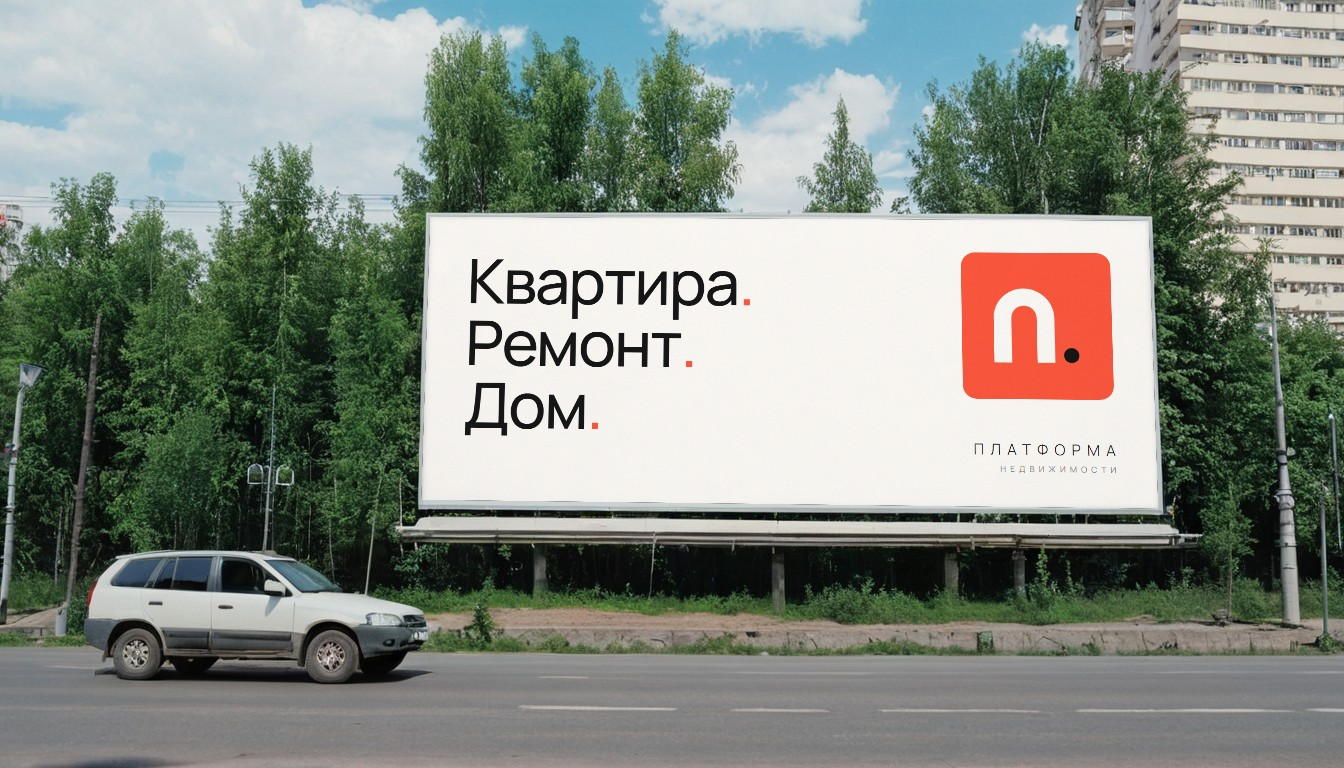
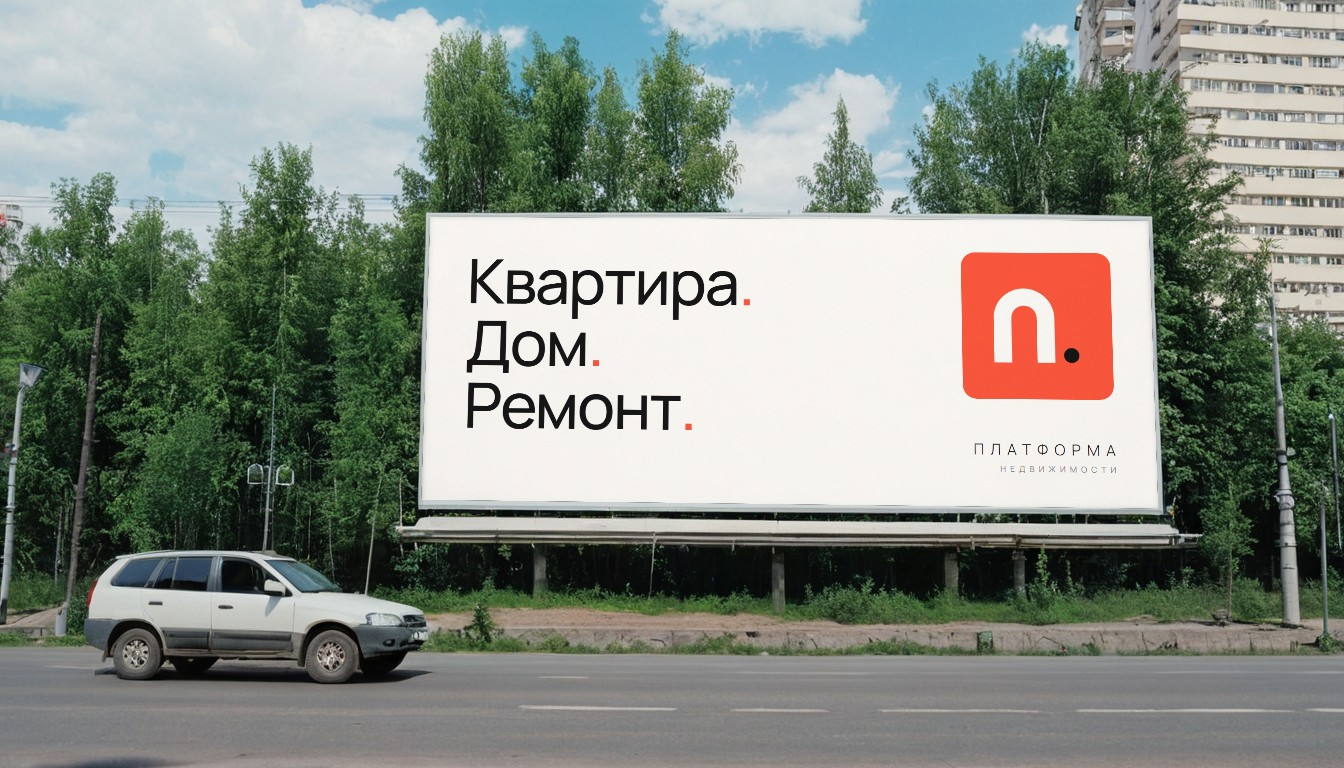
Порядок направлений: Квартира. Дом. Ремонт.

Changed region(s): [[0.3438, 0.4062, 0.5, 0.5625]]

diff --git a/07_Презентация/index.html b/07_Презентация/index.html
@@ -125,7 +125,7 @@ p.lead{font-size:20px;line-height:1.55;max-width:620px;color:inherit;opacity:.85
   <div class="l">
     <div class="meta"><span>Фирменный стиль</span><span>Екатеринбург · 2026</span></div>
     <div><svg width="150" height="132.4" viewBox="0 0 68 60" role="img" aria-label="Знак «П.»" style="overflow:visible;display:block"><path d="M0 60 V24 A24 24 0 0 1 48 24 V60 H34 V24 A10 10 0 0 0 14 24 V60 Z" fill="#FFFFFF"/><circle cx="61" cy="54" r="6" fill="#0E0E0F"/></svg><div style="margin-top:56px"><div style="display:flex;flex-direction:column;align-items:flex-start"><div style="font:300 30px/1 Manrope,sans-serif;letter-spacing:.42em;margin-right:-.42em;color:#FFFFFF;white-space:nowrap">ПЛАТФОРМА</div><div style="font:400 16.5px/1 Manrope,sans-serif;letter-spacing:.5em;margin-right:-.5em;color:#FFE1DB;white-space:nowrap;margin-top:16px">НЕДВИЖИМОСТИ</div></div></div></div>
-    <div style="font:400 26px/1.2 Manrope;letter-spacing:-.01em"><em class="nw">Квартира<i class="o n"></i></em> <em class="nw">Ремонт<i class="o n"></i></em> <em class="nw">Дом<i class="o n"></i></em></div>
+    <div style="font:400 26px/1.2 Manrope;letter-spacing:-.01em"><em class="nw">Квартира<i class="o n"></i></em> <em class="nw">Дом<i class="o n"></i></em> <em class="nw">Ремонт<i class="o n"></i></em></div>
   </div>
   <div class="r" role="img" aria-label="Екатеринбург на закате: Городской пруд и Исеть-башня"></div>
 </section>
@@ -138,8 +138,8 @@ p.lead{font-size:20px;line-height:1.55;max-width:620px;color:inherit;opacity:.85
   </div>
   <div class="trio">
     <div><b><em class="nw">Квартиры<i class="o"></i></em></b><span>Новостройки и вторичное жильё Екатеринбурга только от проверенных застройщиков. Подбор, самая выгодная ипотека, сопровождение сделки.</span></div>
-    <div><b><em class="nw">Ремонт<i class="o"></i></em></b><span>Ремонт у партнёров, за которых мы ручаемся. Смета и сроки — до начала работ, приёмка каждого этапа.</span></div>
     <div><b><em class="nw">Дома<i class="o"></i></em></b><span>Каменные дома от проверенных строителей-партнёров — по готовым и индивидуальным проектам.</span></div>
+    <div><b><em class="nw">Ремонт<i class="o"></i></em></b><span>Ремонт у партнёров, за которых мы ручаемся. Смета и сроки — до начала работ, приёмка каждого этапа.</span></div>
   </div>
 </div></section>
 
@@ -231,7 +231,7 @@ p.lead{font-size:20px;line-height:1.55;max-width:620px;color:inherit;opacity:.85
 </div></section>
 
 <section class="white"><div class="in soc">
-  <div class="phone" style="width:330px"><div class="scr"><div style="background:#fff;position:absolute;inset:0;color:#161617;font-size:11px"><div style="padding:52px 14px 10px;display:flex;justify-content:space-between;font-weight:700;font-size:13px">[ник] <span style="letter-spacing:2px">···</span></div><div style="display:flex;align-items:center;gap:16px;padding:0 14px"><div style="width:70px;height:70px;border-radius:35px;background:#0E0E0F;display:flex;align-items:center;justify-content:center;box-shadow:inset 0 0 0 1px #ffffff14"><svg width="39.2" height="34.6" viewBox="0 0 68 60" role="img" aria-label="Иконка приложения" style="overflow:visible;display:block"><path d="M0 60 V24 A24 24 0 0 1 48 24 V60 H34 V24 A10 10 0 0 0 14 24 V60 Z" fill="#F4F2EE"/><circle cx="61" cy="54" r="6" fill="#F5553C"/></svg></div><div style="display:flex;gap:14px;text-align:center;font-size:10px;color:#8A867F"><div><b style="display:block;font-size:13px;color:#161617">[N]</b>публикаций</div><div><b style="display:block;font-size:13px;color:#161617">[N]</b>подписчиков</div></div></div><div style="padding:10px 14px 0;line-height:1.4"><b>Платформа недвижимости</b><br><em class="nw">Квартиры<i class="o"></i></em> <em class="nw">Ремонт<i class="o"></i></em> <em class="nw">Дома<i class="o"></i></em><br>Только проверенные предложения<br><span style="color:#8A867F">Екатеринбург · +7 965 500-29-18</span></div><div style="display:flex;gap:6px;padding:10px 14px"><div style="flex:1;background:#F5553C;color:#fff;border-radius:8px;text-align:center;padding:7px;font-weight:700">Подписаться</div><div style="flex:1;background:#ECEAE6;border-radius:8px;text-align:center;padding:7px;font-weight:700">Написать</div></div><div style="display:flex;gap:12px;padding:4px 14px 12px"><div style="display:flex;flex-direction:column;align-items:center;gap:4px;font-size:9px;color:#8A867F"><div style="width:46px;height:46px;border-radius:50%;border:1.5px solid #DDD9D2;display:flex;align-items:center;justify-content:center;background:#ECEAE6"><b style="color:#F5553C;font-size:20px;line-height:0">.</b></div>Квартиры</div><div style="display:flex;flex-direction:column;align-items:center;gap:4px;font-size:9px;color:#8A867F"><div style="width:46px;height:46px;border-radius:50%;border:1.5px solid #DDD9D2;display:flex;align-items:center;justify-content:center;background:#ECEAE6"><b style="color:#F5553C;font-size:20px;line-height:0">.</b></div>Ремонт</div><div style="display:flex;flex-direction:column;align-items:center;gap:4px;font-size:9px;color:#8A867F"><div style="width:46px;height:46px;border-radius:50%;border:1.5px solid #DDD9D2;display:flex;align-items:center;justify-content:center;background:#ECEAE6"><b style="color:#F5553C;font-size:20px;line-height:0">.</b></div>Дома</div><div style="display:flex;flex-direction:column;align-items:center;gap:4px;font-size:9px;color:#8A867F"><div style="width:46px;height:46px;border-radius:50%;border:1.5px solid #DDD9D2;display:flex;align-items:center;justify-content:center;background:#ECEAE6"><b style="color:#F5553C;font-size:20px;line-height:0">.</b></div>Ипотека</div></div><div style="display:grid;grid-template-columns:repeat(3,1fr);gap:2px"><div class="pp"><div style="background:#F5553C;color:#fff;padding:8px;font:600 11px/1.05 Manrope">Ставим<br><em class="nw">точку<i class="o n"></i></em></div></div><div class="pp"><div style="background:url(photo/kv_living2.jpg) center/cover"></div></div><div class="pp"><div style="background:#0E0E0F;display:flex;align-items:center;justify-content:center"><svg width="34" height="30.0" viewBox="0 0 68 60" role="img" aria-label="Знак «П.»" style="overflow:visible;display:block"><path d="M0 60 V24 A24 24 0 0 1 48 24 V60 H34 V24 A10 10 0 0 0 14 24 V60 Z" fill="#F4F2EE"/><circle cx="61" cy="54" r="6" fill="#F5553C"/></svg></div></div><div class="pp"><div style="background:url(photo/P_helmet.jpg) 50% 60%/cover"></div></div><div class="pp"><div style="background:#ECEAE6;color:#161617;padding:8px;font:600 10px/1.1 Manrope">Этап 3 из <em class="nw">7<i class="o"></i></em></div></div><div class="pp"><div style="background:url(photo/house_stone2.jpg) center/cover"></div></div><div class="pp"><div style="background:url(photo/rem_bathroom.jpg) center/cover"></div></div><div class="pp"><div style="background:#F5553C;color:#fff;padding:8px;font:600 10px/1.1 Manrope">Ремонт без<br><em class="nw">многоточий<i class="o n"></i></em></div></div><div class="pp"><div style="background:url(photo/kv_kitchen.jpg) center/cover"></div></div></div></div></div><i class="isl"></i></div>
+  <div class="phone" style="width:330px"><div class="scr"><div style="background:#fff;position:absolute;inset:0;color:#161617;font-size:11px"><div style="padding:52px 14px 10px;display:flex;justify-content:space-between;font-weight:700;font-size:13px">[ник] <span style="letter-spacing:2px">···</span></div><div style="display:flex;align-items:center;gap:16px;padding:0 14px"><div style="width:70px;height:70px;border-radius:35px;background:#0E0E0F;display:flex;align-items:center;justify-content:center;box-shadow:inset 0 0 0 1px #ffffff14"><svg width="39.2" height="34.6" viewBox="0 0 68 60" role="img" aria-label="Иконка приложения" style="overflow:visible;display:block"><path d="M0 60 V24 A24 24 0 0 1 48 24 V60 H34 V24 A10 10 0 0 0 14 24 V60 Z" fill="#F4F2EE"/><circle cx="61" cy="54" r="6" fill="#F5553C"/></svg></div><div style="display:flex;gap:14px;text-align:center;font-size:10px;color:#8A867F"><div><b style="display:block;font-size:13px;color:#161617">[N]</b>публикаций</div><div><b style="display:block;font-size:13px;color:#161617">[N]</b>подписчиков</div></div></div><div style="padding:10px 14px 0;line-height:1.4"><b>Платформа недвижимости</b><br><em class="nw">Квартиры<i class="o"></i></em> <em class="nw">Дома<i class="o"></i></em> <em class="nw">Ремонт<i class="o"></i></em><br>Только проверенные предложения<br><span style="color:#8A867F">Екатеринбург · +7 965 500-29-18</span></div><div style="display:flex;gap:6px;padding:10px 14px"><div style="flex:1;background:#F5553C;color:#fff;border-radius:8px;text-align:center;padding:7px;font-weight:700">Подписаться</div><div style="flex:1;background:#ECEAE6;border-radius:8px;text-align:center;padding:7px;font-weight:700">Написать</div></div><div style="display:flex;gap:12px;padding:4px 14px 12px"><div style="display:flex;flex-direction:column;align-items:center;gap:4px;font-size:9px;color:#8A867F"><div style="width:46px;height:46px;border-radius:50%;border:1.5px solid #DDD9D2;display:flex;align-items:center;justify-content:center;background:#ECEAE6"><b style="color:#F5553C;font-size:20px;line-height:0">.</b></div>Квартиры</div><div style="display:flex;flex-direction:column;align-items:center;gap:4px;font-size:9px;color:#8A867F"><div style="width:46px;height:46px;border-radius:50%;border:1.5px solid #DDD9D2;display:flex;align-items:center;justify-content:center;background:#ECEAE6"><b style="color:#F5553C;font-size:20px;line-height:0">.</b></div>Дома</div><div style="display:flex;flex-direction:column;align-items:center;gap:4px;font-size:9px;color:#8A867F"><div style="width:46px;height:46px;border-radius:50%;border:1.5px solid #DDD9D2;display:flex;align-items:center;justify-content:center;background:#ECEAE6"><b style="color:#F5553C;font-size:20px;line-height:0">.</b></div>Ремонт</div><div style="display:flex;flex-direction:column;align-items:center;gap:4px;font-size:9px;color:#8A867F"><div style="width:46px;height:46px;border-radius:50%;border:1.5px solid #DDD9D2;display:flex;align-items:center;justify-content:center;background:#ECEAE6"><b style="color:#F5553C;font-size:20px;line-height:0">.</b></div>Ипотека</div></div><div style="display:grid;grid-template-columns:repeat(3,1fr);gap:2px"><div class="pp"><div style="background:#F5553C;color:#fff;padding:8px;font:600 11px/1.05 Manrope">Ставим<br><em class="nw">точку<i class="o n"></i></em></div></div><div class="pp"><div style="background:url(photo/kv_living2.jpg) center/cover"></div></div><div class="pp"><div style="background:#0E0E0F;display:flex;align-items:center;justify-content:center"><svg width="34" height="30.0" viewBox="0 0 68 60" role="img" aria-label="Знак «П.»" style="overflow:visible;display:block"><path d="M0 60 V24 A24 24 0 0 1 48 24 V60 H34 V24 A10 10 0 0 0 14 24 V60 Z" fill="#F4F2EE"/><circle cx="61" cy="54" r="6" fill="#F5553C"/></svg></div></div><div class="pp"><div style="background:url(photo/P_helmet.jpg) 50% 60%/cover"></div></div><div class="pp"><div style="background:#ECEAE6;color:#161617;padding:8px;font:600 10px/1.1 Manrope">Этап 3 из <em class="nw">7<i class="o"></i></em></div></div><div class="pp"><div style="background:url(photo/house_stone2.jpg) center/cover"></div></div><div class="pp"><div style="background:url(photo/rem_bathroom.jpg) center/cover"></div></div><div class="pp"><div style="background:#F5553C;color:#fff;padding:8px;font:600 10px/1.1 Manrope">Ремонт без<br><em class="nw">многоточий<i class="o n"></i></em></div></div><div class="pp"><div style="background:url(photo/kv_kitchen.jpg) center/cover"></div></div></div></div></div><i class="isl"></i></div>
   <div><div class="lab"><b>11</b> Соцсети</div><h2>Лента как <em class="nw">витрина<i class="o"></i></em></h2>
     <p class="lead" style="color:#4A4741">В ленте — только отобранные предложения: фото реальных объектов чередуются с красными карточками-фразами. Аватар — иконка приложения.</p>
     <div class="posts" style="margin-top:44px">
@@ -250,7 +250,7 @@ p.lead{font-size:20px;line-height:1.55;max-width:620px;color:inherit;opacity:.85
     <div class="phone" style="width:300px"><div class="scr"><img src="photo/site_mobile.png" alt="Главная страница на телефоне"></div><i class="isl"></i></div>
   </div>
   <div class="notes">
-    <div><b>Вкладки</b>Квартиры, Ремонт, Дома — три направления в одном поиске.</div>
+    <div><b>Вкладки</b>Новостройки, вторичка, дома и квартиры с ремонтом — в одном поиске.</div>
     <div><b>Фильтры сразу</b>Тип, комнаты, цена и район — на первом экране, на кнопке — число найденных вариантов.</div>
     <div><b>Отметка «проверено»</b>Красная точка в карточке и на карте — застройщик или бригада прошли нашу проверку.</div>
     <div><b>Карточки и карта</b>Фото, цена и цена за м²; при наведении объект подсвечивается на карте.</div>

diff --git a/08_Сайт_пример/index.html b/08_Сайт_пример/index.html
@@ -269,7 +269,7 @@ footer h4{color:var(--milk);font-size:14px;margin:0 0 12px}footer a{display:bloc
       <p class="sub">Продаём только то, что проверили сами: надёжные застройщики, чистые сделки, самые выгодные условия. Ремонт и дом — у партнёров, в которых мы уверены.</p>
     </div>
     <div class="sbox">
-      <div class="tabs" role="tablist" aria-label="Что ищете"><button role="tab" aria-selected="true">Новостройки</button><button role="tab" aria-selected="false">Вторичка</button><button role="tab" aria-selected="false">С ремонтом</button><button role="tab" aria-selected="false">Дома</button></div>
+      <div class="tabs" role="tablist" aria-label="Что ищете"><button role="tab" aria-selected="true">Новостройки</button><button role="tab" aria-selected="false">Вторичка</button><button role="tab" aria-selected="false">Дома</button><button role="tab" aria-selected="false">С ремонтом</button></div>
       <form class="sf" onsubmit="return false" aria-label="Поиск">
         <div class="f"><label>Комнат</label><div class="v"><button type="button" class="chip" aria-pressed="false">Студия</button><button type="button" class="chip" aria-pressed="true">1</button><button type="button" class="chip" aria-pressed="true">2</button><button type="button" class="chip" aria-pressed="false">3</button><button type="button" class="chip" aria-pressed="false">4+</button></div></div>
         <div class="f"><label for="pr">Цена, ₽</label><input id="pr" placeholder="от — до" inputmode="numeric"></div>
@@ -343,8 +343,8 @@ footer h4{color:var(--milk);font-size:14px;margin:0 0 12px}footer a{display:bloc
   <h2 class="t">Продаём мы. Делают — проверенные<i class="o"></i></h2>
   <div class="pgrid">
     <div class="pc"><div class="ph"><img src="photo/inspect.jpg" alt="Инженер проверяет строящийся дом" loading="lazy"><span>Застройщики</span></div><div class="b"><h3>Новостройки<i class="o"></i></h3><p>Только застройщики, которые прошли нашу проверку по документам и сданным домам.</p><div class="br2">[ эскроу ] [ сроки сдачи ] [ суды ] [ отзывы жильцов ]</div><a class="lk" href="#list">Смотреть квартиры</a></div></div>
-    <div class="pc"><div class="ph"><img src="photo/crew.jpg" alt="Бригада укладывает плитку" loading="lazy"><span>Подрядчики</span></div><div class="b"><h3>Ремонт<i class="o"></i></h3><p>После покупки — ремонт от партнёра. Смета до начала работ, приёмка по этапам.</p><div class="br2">[ портфолио ] [ договор ] [ гарантия ] [ приёмка этапов ]</div><a class="lk" href="#ba">Как это выглядит</a></div></div>
     <div class="pc"><div class="ph"><img src="photo/house.jpg" alt="Каменный дом за городом" loading="lazy"><span>Строители</span></div><div class="b"><h3>Дома<i class="o"></i></h3><p>Готовые и строящиеся дома от строителей, которых мы проверили.</p><div class="br2">[ построенные дома ] [ смета ] [ этапы оплаты ] [ гарантия ]</div><a class="lk" href="#lead">Подобрать дом</a></div></div>
+    <div class="pc"><div class="ph"><img src="photo/crew.jpg" alt="Бригада укладывает плитку" loading="lazy"><span>Подрядчики</span></div><div class="b"><h3>Ремонт<i class="o"></i></h3><p>После покупки — ремонт от партнёра. Смета до начала работ, приёмка по этапам.</p><div class="br2">[ портфолио ] [ договор ] [ гарантия ] [ приёмка этапов ]</div><a class="lk" href="#ba">Как это выглядит</a></div></div>
   </div>
   <div class="way"><span class="stp"><i></i>Подобрали квартиру</span><span class="ln"></span><span class="stp"><i></i>Провели сделку</span><span class="ln"></span><span class="stp"><i></i>Передали партнёру ремонт</span><span class="ln"></span><span class="stp"><i></i>Вы получили ключи</span><a class="btn red" href="tel:+79655002918">Один менеджер на всё</a></div>
 </div></section>
@@ -399,7 +399,7 @@ footer h4{color:var(--milk);font-size:14px;margin:0 0 12px}footer a{display:bloc
 <section class="lead" id="lead"><span class="dotgrid" aria-hidden="true"></span><div class="w lgrid">
   <div><h2 class="t">Расскажите, что ищете. Мы&nbsp;уже знаем, кому можно <span class="nw">доверять<i class="o n"></i></span></h2><p>Подберём варианты среди проверенных предложений и перезвоним. Или позвоните сами: <a href="tel:+79655002918" style="font-weight:700;border-bottom:2px solid #fff">+7 965 500-29-18</a></p></div>
   <form class="form" id="leadForm" onsubmit="return false">
-    <div class="ch" role="group" aria-label="Что ищете"><button type="button" aria-pressed="true">Квартиру</button><button type="button" aria-pressed="false">С ремонтом</button><button type="button" aria-pressed="false">Дом</button><button type="button" aria-pressed="false">Ипотеку</button></div>
+    <div class="ch" role="group" aria-label="Что ищете"><button type="button" aria-pressed="true">Квартиру</button><button type="button" aria-pressed="false">Дом</button><button type="button" aria-pressed="false">С ремонтом</button><button type="button" aria-pressed="false">Ипотеку</button></div>
     <div class="f"><label for="ln">Как к вам обращаться</label><input id="ln" autocomplete="name" placeholder="Имя"></div>
     <div class="f"><label for="lp">Телефон</label><input id="lp" type="tel" autocomplete="tel" placeholder="+7"></div>
     <button class="btn red" type="submit">Подобрать варианты</button>

diff --git a/index.html b/index.html
@@ -31,7 +31,7 @@ footer{border-top:1px solid #ffffff1a;padding:28px 0 40px;color:#8A867F;font-siz
 </style></head><body><div class="w">
 <header><div class="lg"><svg width="64" height="56.5" viewBox="0 0 68 60" aria-hidden="true" style="display:block;overflow:visible"><path d="M0 60 V24 A24 24 0 0 1 48 24 V60 H34 V24 A10 10 0 0 0 14 24 V60 Z" fill="#F4F2EE"/><circle cx="61" cy="54" r="6" fill="#F5553C"/></svg><div class="wm"><b>ПЛАТФОРМА</b><small>НЕДВИЖИМОСТИ</small></div></div>
 <div class="meta">Фирменный стиль<br>Екатеринбург · 2026</div></header>
-<h1>Квартира<i class="o"></i> Ремонт<i class="o"></i> Дом<i class="o"></i><br>Ставим точку<i class="o"></i></h1>
+<h1>Квартира<i class="o"></i> Дом<i class="o"></i> Ремонт<i class="o"></i><br>Ставим точку<i class="o"></i></h1>
 <p class="lead">Материалы по бренду: презентация, пример сайта, логотип и носители.</p>
 <main class="grid"><article class="card"><a class="pv" href="07_Презентация/"><img src="_hub/1.jpg" alt="Презентация бренда" loading="lazy"></a><div class="tx"><span class="n">01</span><h2><a href="07_Презентация/">Презентация бренда<i class="o"></i></a></h2><p>Идея, знак и построение, цвета, шрифт, графика, иконка, слоганы, носители и сайт.</p><div class="act"><a class="open" href="07_Презентация/">Открыть</a><a class="dl" href="07_Презентация/Презентация_бренда.jpg" download>Скачать картинкой</a></div></div></article><article class="card"><a class="pv" href="08_Сайт_пример/"><img src="_hub/2.jpg" alt="Пример сайта" loading="lazy"></a><div class="tx"><span class="n">02</span><h2><a href="08_Сайт_пример/">Пример сайта<i class="o"></i></a></h2><p>Поиск по квартирам, ремонту и домам на первом экране, карточки и карта. Работает на телефоне.</p><div class="act"><a class="open" href="08_Сайт_пример/">Открыть</a></div></div></article><article class="card"><a class="pv" href="06_П_точка/index.html"><img src="_hub/3.jpg" alt="Логотип и система" loading="lazy"></a><div class="tx"><span class="n">03</span><h2><a href="06_П_точка/index.html">Логотип и система<i class="o"></i></a></h2><p>Знак «П.», версии логотипа, малые размеры, иконка, точка как система.</p><div class="act"><a class="open" href="06_П_точка/index.html">Открыть</a><a class="dl" href="06_П_точка/П_логотип.png" download>Скачать картинкой</a></div></div></article><article class="card"><a class="pv" href="06_П_точка/life.html"><img src="_hub/4.jpg" alt="Бренд в жизни" loading="lazy"></a><div class="tx"><span class="n">04</span><h2><a href="06_П_точка/life.html">Бренд в жизни<i class="o"></i></a></h2><p>Вывеска, ограждение стройки, билборд, каска, спецодежда, визитки и соцсети.</p><div class="act"><a class="open" href="06_П_точка/life.html">Открыть</a><a class="dl" href="06_П_точка/П_в_жизни.png" download>Скачать картинкой</a></div></div></article></main>
 <footer>Цены, площади, имена и контакты на макетах — заглушки до данных заказчика.</footer>

diff --git a/06_П_точка/index.html b/06_П_точка/index.html
@@ -32,7 +32,7 @@
 
   <div class="t s7" style="background:#0E0E0F;border:1px solid #2A2B2F;justify-content:flex-start;align-items:flex-start;flex-direction:column;gap:22px;min-height:360px">
     <span class="cap" style="color:#9A968F">идея: точка</span>
-    <div class="idea" style="margin-top:28px">Квартира<span style="color:#F5553C">.</span><br>Ремонт<span style="color:#F5553C">.</span><br>Дом<span style="color:#F5553C">.</span></div>
+    <div class="idea" style="margin-top:28px">Квартира<span style="color:#F5553C">.</span><br>Дом<span style="color:#F5553C">.</span><br>Ремонт<span style="color:#F5553C">.</span></div>
     <div class="txt">Точка в знаке — это вы. Мы ставим точку в поиске квартиры, в ремонте и в стройке: доводим до результата. Точка становится фирменным приёмом — в слогане, на карте, в прогрессе стройки.</div>
   </div>
   <div class="s5" style="display:grid;grid-template-rows:1fr 1fr;gap:18px">

diff --git a/tools/p_present.py b/tools/p_present.py
@@ -132,15 +132,15 @@ def profile():
     hl = ''.join(f'<div style="display:flex;flex-direction:column;align-items:center;gap:4px;font-size:9px;color:{SUB}">'
                  f'<div style="width:46px;height:46px;border-radius:50%;border:1.5px solid #DDD9D2;display:flex;align-items:center;justify-content:center;background:{bg}">{inner}</div>{t}</div>'
                  for t, bg, inner in (('Квартиры', GRAY, f'<b style="color:{RED};font-size:20px;line-height:0">.</b>'),
-                                      ('Ремонт', GRAY, f'<b style="color:{RED};font-size:20px;line-height:0">.</b>'),
                                       ('Дома', GRAY, f'<b style="color:{RED};font-size:20px;line-height:0">.</b>'),
+                                      ('Ремонт', GRAY, f'<b style="color:{RED};font-size:20px;line-height:0">.</b>'),
                                       ('Ипотека', GRAY, f'<b style="color:{RED};font-size:20px;line-height:0">.</b>')))
     return (f'<div style="background:#fff;position:absolute;inset:0;color:{INK};font-size:11px">'
             f'<div style="padding:52px 14px 10px;display:flex;justify-content:space-between;font-weight:700;font-size:13px">[ник] <span style="letter-spacing:2px">···</span></div>'
             f'<div style="display:flex;align-items:center;gap:16px;padding:0 14px">{icon(70, 35)}'
             f'<div style="display:flex;gap:14px;text-align:center;font-size:10px;color:{SUB}">'
             f'<div><b style="display:block;font-size:13px;color:{INK}">[N]</b>публикаций</div><div><b style="display:block;font-size:13px;color:{INK}">[N]</b>подписчиков</div></div></div>'
-            f'<div style="padding:10px 14px 0;line-height:1.4"><b>Платформа недвижимости</b><br>Квартиры<i class="o"></i> Ремонт<i class="o"></i> Дома<i class="o"></i><br>Только проверенные предложения<br><span style="color:{SUB}">Екатеринбург · +7 965 500-29-18</span></div>'
+            f'<div style="padding:10px 14px 0;line-height:1.4"><b>Платформа недвижимости</b><br>Квартиры<i class="o"></i> Дома<i class="o"></i> Ремонт<i class="o"></i><br>Только проверенные предложения<br><span style="color:{SUB}">Екатеринбург · +7 965 500-29-18</span></div>'
             f'<div style="display:flex;gap:6px;padding:10px 14px"><div style="flex:1;background:{RED};color:#fff;border-radius:8px;text-align:center;padding:7px;font-weight:700">Подписаться</div>'
             f'<div style="flex:1;background:{GRAY};border-radius:8px;text-align:center;padding:7px;font-weight:700">Написать</div></div>'
             f'<div style="display:flex;gap:12px;padding:4px 14px 12px">{hl}</div>'
@@ -309,7 +309,7 @@ p.lead{{font-size:20px;line-height:1.55;max-width:620px;color:inherit;opacity:.8
   <div class="l">
     <div class="meta"><span>Фирменный стиль</span><span>Екатеринбург · 2026</span></div>
     <div>{mark(150, WHITE, NIGHT)}<div style="margin-top:56px">{word(WHITE, 30, "#FFE1DB")}</div></div>
-    <div style="font:400 26px/1.2 Manrope;letter-spacing:-.01em">Квартира<i class="o n"></i> Ремонт<i class="o n"></i> Дом<i class="o n"></i></div>
+    <div style="font:400 26px/1.2 Manrope;letter-spacing:-.01em">Квартира<i class="o n"></i> Дом<i class="o n"></i> Ремонт<i class="o n"></i></div>
   </div>
   <div class="r" role="img" aria-label="Екатеринбург на закате: Городской пруд и Исеть-башня"></div>
 </section>
@@ -322,8 +322,8 @@ p.lead{{font-size:20px;line-height:1.55;max-width:620px;color:inherit;opacity:.8
   </div>
   <div class="trio">
     <div><b>Квартиры{D}</b><span>Новостройки и вторичное жильё Екатеринбурга только от проверенных застройщиков. Подбор, самая выгодная ипотека, сопровождение сделки.</span></div>
-    <div><b>Ремонт{D}</b><span>Ремонт у партнёров, за которых мы ручаемся. Смета и сроки — до начала работ, приёмка каждого этапа.</span></div>
     <div><b>Дома{D}</b><span>Каменные дома от проверенных строителей-партнёров — по готовым и индивидуальным проектам.</span></div>
+    <div><b>Ремонт{D}</b><span>Ремонт у партнёров, за которых мы ручаемся. Смета и сроки — до начала работ, приёмка каждого этапа.</span></div>
   </div>
 </div></section>
 
@@ -434,7 +434,7 @@ p.lead{{font-size:20px;line-height:1.55;max-width:620px;color:inherit;opacity:.8
     {phone('<img src="photo/site_mobile.png" alt="Главная страница на телефоне">', 300)}
   </div>
   <div class="notes">
-    <div><b>Вкладки</b>Квартиры, Ремонт, Дома — три направления в одном поиске.</div>
+    <div><b>Вкладки</b>Новостройки, вторичка, дома и квартиры с ремонтом — в одном поиске.</div>
     <div><b>Фильтры сразу</b>Тип, комнаты, цена и район — на первом экране, на кнопке — число найденных вариантов.</div>
     <div><b>Отметка «проверено»</b>Красная точка в карточке и на карте — застройщик или бригада прошли нашу проверку.</div>
     <div><b>Карточки и карта</b>Фото, цена и цена за м²; при наведении объект подсвечивается на карте.</div>

diff --git a/tools/patches/order_kv_dom_remont.py b/tools/patches/order_kv_dom_remont.py
@@ -1,0 +1,39 @@
+"""Порядок направлений: «Квартира. Дом. Ремонт.» (продаём квартиры и дома, ремонт — у партнёров). Run из корня репо."""
+import re
+
+
+def patch(p, pairs, regex=()):
+    s = open(p, encoding='utf8').read()
+    for a, b in pairs:
+        assert s.count(a) >= 1, (p, a[:80])
+        s = s.replace(a, b)
+    for a, b in regex:
+        s, n = re.subn(a, b, s)
+        assert n >= 1, (p, a)
+    open(p, 'w', encoding='utf8').write(s)
+
+
+patch('tools/p_present.py', [
+    ('Квартира<i class="o n"></i> Ремонт<i class="o n"></i> Дом<i class="o n"></i>', 'Квартира<i class="o n"></i> Дом<i class="o n"></i> Ремонт<i class="o n"></i>'),
+    ('Квартиры<i class="o"></i> Ремонт<i class="o"></i> Дома<i class="o"></i>', 'Квартиры<i class="o"></i> Дома<i class="o"></i> Ремонт<i class="o"></i>'),
+    ("(('Квартиры', GRAY,", "(('Квартиры', GRAY,"),
+    ('Квартиры, Ремонт, Дома — три направления в одном поиске.', 'Новостройки, вторичка, дома и квартиры с ремонтом — в одном поиске.'),
+], regex=[
+    # блок «О бренде»: Квартиры → Дома → Ремонт
+    (r'(    <div><b>Ремонт\{D\}</b><span>[^\n]*\n)(    <div><b>Дома\{D\}</b><span>[^\n]*\n)', r'\2\1'),
+    # кружки-разделы в профиле соцсети
+    (r"\('Ремонт', GRAY, ([^\n]*?)\),\n(\s*)\('Дома', GRAY, ([^\n]*?)\),", r"('Дома', GRAY, \3),\n\2('Ремонт', GRAY, \1),"),
+])
+patch('tools/p_dot.py', [('Квартира{dot}<br>Ремонт{dot}<br>Дом', 'Квартира{dot}<br>Дом{dot}<br>Ремонт')])
+patch('tools/mockups/p_mockups.py', [('Квартира{dot}<br>Ремонт{dot}<br>Дом', 'Квартира{dot}<br>Дом{dot}<br>Ремонт')])
+patch('tools/p_hub.py', [('Квартира<i class="o"></i> Ремонт<i class="o"></i> Дом<i class="o"></i>', 'Квартира<i class="o"></i> Дом<i class="o"></i> Ремонт<i class="o"></i>')])
+patch('08_Сайт_пример/index.html', [
+    ('<button role="tab" aria-selected="false">С ремонтом</button><button role="tab" aria-selected="false">Дома</button>',
+     '<button role="tab" aria-selected="false">Дома</button><button role="tab" aria-selected="false">С ремонтом</button>'),
+    ('<button type="button" aria-pressed="false">С ремонтом</button><button type="button" aria-pressed="false">Дом</button>',
+     '<button type="button" aria-pressed="false">Дом</button><button type="button" aria-pressed="false">С ремонтом</button>'),
+], regex=[
+    # партнёры: Новостройки → Дома → Ремонт
+    (r'(    <div class="pc"><div class="ph"><img src="photo/crew\.jpg"[^\n]*\n)(    <div class="pc"><div class="ph"><img src="photo/house\.jpg"[^\n]*\n)', r'\2\1'),
+])
+print('ok')

diff --git a/tools/mockups/p_mockups.py b/tools/mockups/p_mockups.py
@@ -50,7 +50,7 @@ def art_html(v, surf):
         return M.page(V, w, h, body, NIGHT)
     if surf == 'billboard':
         body = (f'<div style="position:absolute;inset:0;background:{MILK};padding:34px 40px;box-sizing:border-box;display:flex;justify-content:space-between;align-items:stretch">'
-                f'<div style="font:500 64px/1.0 Manrope,sans-serif;letter-spacing:-.03em;color:{INK}">Квартира{dot}<br>Ремонт{dot}<br>Дом{dot}</div>'
+                f'<div style="font:500 64px/1.0 Manrope,sans-serif;letter-spacing:-.03em;color:{INK}">Квартира{dot}<br>Дом{dot}<br>Ремонт{dot}</div>'
                 f'<div style="display:flex;flex-direction:column;justify-content:space-between;align-items:flex-end">'
                 f'<div style="width:150px;height:150px;border-radius:14px;background:{RED};display:flex;align-items:center;justify-content:center">{mark(86, MILK, INK)}</div>'
                 f'{word(INK, 15, SUB, "flex-end")}</div></div>')

diff --git a/tools/p_hub.py b/tools/p_hub.py
@@ -73,7 +73,7 @@ footer{{border-top:1px solid #ffffff1a;padding:28px 0 40px;color:{SUB};font-size
 </style></head><body><div class="w">
 <header><div class="lg">{mark(64)}<div class="wm"><b>ПЛАТФОРМА</b><small>НЕДВИЖИМОСТИ</small></div></div>
 <div class="meta">Фирменный стиль<br>Екатеринбург · 2026</div></header>
-<h1>Квартира<i class="o"></i> Ремонт<i class="o"></i> Дом<i class="o"></i><br>Ставим точку<i class="o"></i></h1>
+<h1>Квартира<i class="o"></i> Дом<i class="o"></i> Ремонт<i class="o"></i><br>Ставим точку<i class="o"></i></h1>
 <p class="lead">Материалы по бренду: презентация, пример сайта, логотип и носители.</p>
 <main class="grid">{cards}</main>
 <footer>Цены, площади, имена и контакты на макетах — заглушки до данных заказчика.</footer>

diff --git a/tools/p_dot.py b/tools/p_dot.py
@@ -90,7 +90,7 @@ def page():
 
   <div class="t s7" style="background:{NIGHT};border:1px solid #2A2B2F;justify-content:flex-start;align-items:flex-start;flex-direction:column;gap:22px;min-height:360px">
     <span class="cap" style="color:{SAND}">идея: точка</span>
-    <div class="idea" style="margin-top:28px">Квартира{dot}<br>Ремонт{dot}<br>Дом{dot}</div>
+    <div class="idea" style="margin-top:28px">Квартира{dot}<br>Дом{dot}<br>Ремонт{dot}</div>
     <div class="txt">Точка в знаке — это вы. Мы ставим точку в поиске квартиры, в ремонте и в стройке: доводим до результата. Точка становится фирменным приёмом — в слогане, на карте, в прогрессе стройки.</div>
   </div>
   <div class="s5" style="display:grid;grid-template-rows:1fr 1fr;gap:18px">
